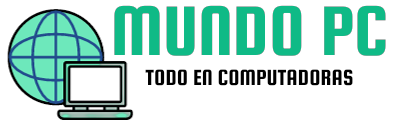
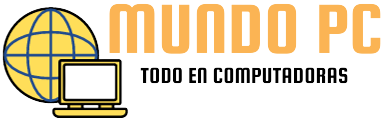
change color and fixed login page

diff --git a/src/pages/Login.jsx b/src/pages/Login.jsx
@@ -1,4 +1,4 @@
-import React from 'react'
+
 import useAuthentication from '../hooks/useAuthentication'
 import '../pages/styles/login.css'
 
@@ -18,17 +18,18 @@ const Login = () => {
   return (
     <div className='login__ppl'>
     <form className='login__form' onSubmit={handleLogin}>
-        <h2 className='login__title'>Login</h2>
+        <h2 className='login__title'>Ingresar</h2>
+        <div className='login__prueba'>
+        <p>email: usuario1@gmail.com</p>
+        <p>password: 654321</p>
+        </div>
         <div className='login__box'>
             <label htmlFor="email">Email</label>
             <input type="email" id='email'></input>
-        </div>
-
-    <div>
         <label htmlFor="password">Password</label>
         <input type="password" id='password'></input>
         </div>
-    <button> Log in</button>
+    <button className='log__btn'> Log in</button>
     </form>
     </div>
   )

diff --git a/src/pages/styles/login.css b/src/pages/styles/login.css
@@ -1,11 +1,42 @@
 .login__ppl{
+    padding: 4em 0em 3em 0 ;
+    text-align: center;
+}
+
+.login__form{
+    display: flex;
+    flex-direction: column;
+    align-items: center;
+}
+.login__box{
     display: flex;
     flex-direction: column;
     justify-content: center;
     align-items: center;
-    padding: 1em;
+    text-align: center;
+    gap: 1em;
+    margin: 2em;
 }
-
 .login__title{
-    color: orangered;
+    color: var(--color1);
+}
+.login__prueba{
+    display: flex;
+    flex-direction: column;
+    text-align: center;
+    width: 300px;
+    gap: 1em;
+    margin-top: 1em;
+    background-color: var(--color1);
+    padding: 1em 0 1em 0;
+}
+.log__btn{
+    color: var(--color2);
+    width: 100px;
+    height: 35px;
+    border-radius: 50em;
+    background-color: var(--color-cart);
+}
+.log__btn:hover{
+    background-color: var( --color1);
 }

diff --git a/src/components/InfoProduct.jsx b/src/components/InfoProduct.jsx
@@ -23,8 +23,8 @@ addProductToCart(data)
         <div className="product__general-box">
         <article className="product__box" onClick={handleSelectProductId}>
             <header className="product__header">
-                <img className="product__img product__img1" src={product?.productImgs?.[0]?.url} alt="" />
-                <img className="product__img product__img2" src={product?.productImgs?.[1]?.url}  alt="" />
+                <img className="product__img product__img1" src={product?.productImgs?.[1]?.url} alt="" />
+                <img className="product__img product__img2" src={product?.productImgs?.[2]?.url}  alt="" />
             </header>
             <section className="product__setion">
                 <h2 className="product__brand">{product?.brand}</h2>

diff --git a/src/index.css b/src/index.css
@@ -1,12 +1,12 @@
 @import url('https://fonts.googleapis.com/css2?family=Ubuntu:wght@300;400;500;700&display=swap');
 
 :root{
-  --titlecolor: #0fba86;
-  --color1:#33d49e;
-  --color-cart:#022c23;
+  --titlecolor: #FBB454;
+  --color1:#FBB454;
+  --color-cart:#860A35;
   --color2:#ffffff;
-  --buttons:#04976d;
-  --header: #0F0F0F;
+  --buttons:#323232;
+  --header: #323232;
   --box-shadow:0 0 10px rgba(0, 0, 0, 0.26);
   --background1:#ffffffec;
 }

diff --git a/src/pages/styles/homeProduct.css b/src/pages/styles/homeProduct.css
@@ -78,7 +78,7 @@ margin: 3em 0 4em 0;
 
 .filter__opt:hover{
     color: var(--color2);
-    background-color: var(--buttons);
+    background-color: var(--titlecolor);
     max-width:fit-content;
 }
 .filter__item{
@@ -87,7 +87,7 @@ margin: 3em 0 4em 0;
 
 .filter__item:hover{
     color: var(--color2);
-    background-color: var(--buttons);
+    background-color: var(--titlecolor);
     max-width:fit-content;
 }
 
